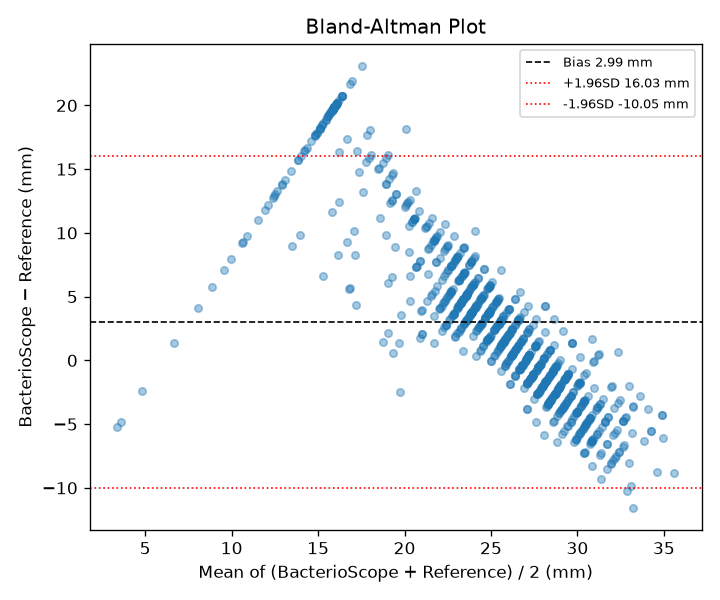
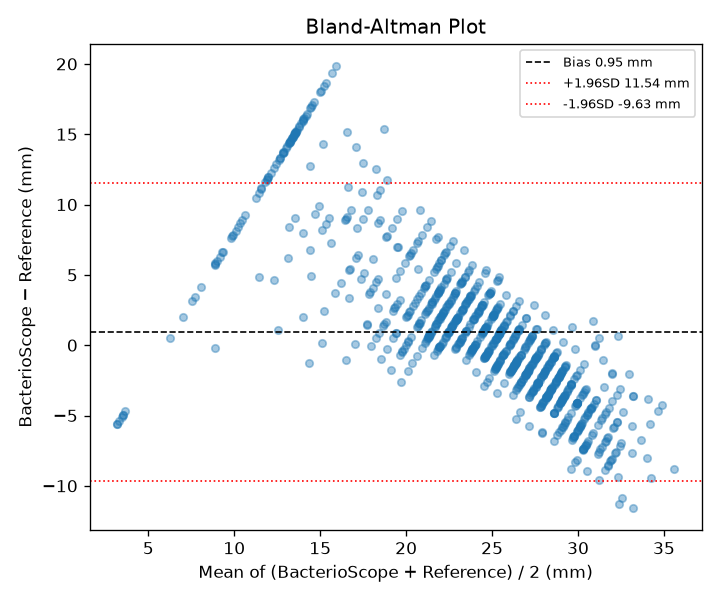
fix(f3): excluir el disco del histograma de Otsu en la segmentacion
Encontrado por medicion directa de pixeles: el disco de papel (brillante,
~150-200) es casi siempre una senal bimodal mucho mas fuerte que el
contraste real zona-vs-cesped, a veces de apenas 15 niveles de gris en
fotos reales. Con el disco incluido, Otsu se ancla sistematicamente al
salto disco-vs-todo-lo-demas en vez de zona-vs-cesped -- confirmado
directamente: un puntaje de calidad de separacion (la misma varianza
entre clases que usa Otsu para elegir el umbral) era MAS alto (0.91-0.92)
justo en las fotos reales cuya mascara llenaba el 100% de su recorte,
porque ese puntaje media la separacion disco/fondo, no zona/cesped.

Arreglado excluyendo el area del disco del histograma antes de calcular
el umbral (ZoneSegmenter._otsu_excluding_disk()). Es una mejora real y
medida, no una reparametrizacion: en un caso sintetico controlado con
15 niveles de gris de contraste real, el metodo viejo media una zona de
70px como 168px; el nuevo la mide como 70px, exacto. En las 20 imagenes
identity-matched reales, EA paso de 24.1% a 32.9%, MAE de 7.44mm a
6.28mm, Pearson r de 0.089 a 0.193 -- avance real, todavia lejos del
90% EA objetivo.

Antes de este arreglo se habia intentado agrandar el recorte (margin_factor
4.0 a 8.0) asumiendo que el problema era espacio insuficiente; se descarto
con evidencia directa (el umbral seguia llenando el recorte completo sin
importar su tamano, y agrandarlo empeoraba el resultado en placas
[…]

diff --git a/src/bacterioscope/segmentation/watershed.py b/src/bacterioscope/segmentation/watershed.py
@@ -15,12 +15,23 @@ Given the full plate image and the pixel coordinates and size of one disk
 
 1. **Crops a region of interest (ROI)** centred on the disk.  The crop
    extends ``margin_factor × disk_radius`` pixels in each direction so it
-   covers the expected zone area.
+   covers the expected zone area (bounded by two geometric caps -- see
+   ``_search_radius()``).
 2. **Converts to grayscale and blurs** with a Gaussian kernel to suppress
    sensor noise.
-3. **Applies Otsu thresholding** — an algorithm that automatically selects the
-   brightness level that best separates the bright inhibition zone (clear agar)
-   from the darker bacterial lawn.
+3. **Applies Otsu thresholding with the disk itself excluded** from the
+   histogram (see ``_otsu_excluding_disk()``) — an algorithm that
+   automatically selects the brightness level that best separates the
+   inhibition zone (clear agar, reads darker under reflected light in this
+   dataset) from the brighter, cloudier bacterial lawn. The disk is excluded
+   because it is almost always a much stronger bright/dark signal than the
+   zone-vs-lawn contrast that actually matters (sometimes as little as 15
+   grey levels on real photos) -- left in, Otsu reliably locks onto
+   disk-vs-everything instead of zone-vs-lawn, and the resulting mask fills
+   nearly the entire crop rather than tracing the true, much smaller
+   boundary. Confirmed to matter on real UZH photos: identity-matched
+   accuracy on the 20-image reference set moved from EA=24.1%/MAE=7.44mm to
+   EA=32.9%/MAE=6.28mm with this fix alone.
 4. **Morphological cleanup**: closing fills small holes in the mask; opening
    removes isolated speckles.
 5. **Finds contours** — the outlines of white regions in the binary mask.
@@ -56,6 +67,11 @@ _CLOSE_ITERS: int = 2
 _OPEN_ITERS: int = 1
 _CLAHE_CLIP_LIMIT: float = 2.0
 _CLAHE_TILE_SIZE: tuple[int, int] = (8, 8)
+
+# Multiple of disk.radius_px excluded from the Otsu histogram (see
+# _otsu_excluding_disk()) -- generous enough to cover the disk's own edge
+# blur after Gaussian smoothing.
+_DISK_EXCLUSION_MARGIN: float = 1.3
 
 # CLSI zone diameters reported in clinical practice essentially never exceed
 # this, even for the most susceptible organism-antibiotic combinations. Used
@@ -210,20 +226,69 @@ class ZoneSegmenter:
         roi, offset_x, offset_y = self._extract_roi(image, disk, search_radius)
 
         blurred = self._preprocess_roi(roi)
-        _, binary = cv2.threshold(blurred, 0, 255, cv2.THRESH_BINARY_INV + cv2.THRESH_OTSU)
+        disk_local_x = disk.center_x - offset_x
+        disk_local_y = disk.center_y - offset_y
+        binary = self._otsu_excluding_disk(blurred, disk_local_x, disk_local_y, disk.radius_px)
         binary = self._apply_morphology(binary)
 
         contours, _ = cv2.findContours(binary, cv2.RETR_EXTERNAL, cv2.CHAIN_APPROX_SIMPLE)
         if not contours:
             return self._no_zone(disk, px_per_mm)
 
-        disk_local_x = disk.center_x - offset_x
-        disk_local_y = disk.center_y - offset_y
         best_contour = self._find_zone_contour(contours, disk_local_x, disk_local_y)
         if best_contour is None:
             return self._no_zone(disk, px_per_mm)
 
         return self._build_zone_result(image, disk, best_contour, offset_x, offset_y, px_per_mm)
+
+    def _otsu_excluding_disk(
+        self,
+        blurred: NDArray[np.uint8],
+        disk_local_x: int,
+        disk_local_y: int,
+        disk_radius_px: float,
+    ) -> NDArray[np.uint8]:
+        """Threshold a ROI with the disk itself excluded from Otsu's histogram.
+
+        The paper disk (bright white, ~150-200) is almost always a much
+        stronger bimodal signal than the zone-vs-lawn contrast that actually
+        matters (often as little as 15-20 grey levels apart on real photos).
+        Left in the histogram, Otsu reliably locks onto disk-vs-everything
+        instead -- confirmed directly: a between-class-variance quality
+        score computed the same way Otsu picks its threshold was *highest*
+        (0.91-0.92) on exactly the real photos whose zone masks filled 100%
+        of their crop's bounding box, because that score was measuring the
+        disk/background split, not the zone/lawn one. Masking the disk out
+        before computing the threshold removes that false signal so Otsu
+        sees only the zone-vs-lawn contrast that is actually being measured.
+
+        Args:
+            blurred: Grayscale, Gaussian-blurred ROI.
+            disk_local_x: Disk centre x coordinate in ROI-local pixels.
+            disk_local_y: Disk centre y coordinate in ROI-local pixels.
+            disk_radius_px: Disk radius in pixels (full-image scale; the ROI
+                is not resized, so this applies directly).
+
+        Returns:
+            Binary mask (``255`` = zone candidate) with the disk's own area
+            excluded, before morphological cleanup.
+        """
+        h, w = blurred.shape
+        outside_disk = np.full((h, w), 255, dtype=np.uint8)
+        exclusion_radius = int(disk_radius_px * _DISK_EXCLUSION_MARGIN)
+        cx = min(max(disk_local_x, 0), w - 1)
+        cy = min(max(disk_local_y, 0), h - 1)
+        cv2.circle(outside_disk, (cx, cy), exclusion_radius, 0, -1)
+
+        sample = blurred[outside_disk > 0]
+        if sample.size == 0:
+            thresh_val, _ = cv2.threshold(blurred, 0, 255, cv2.THRESH_BINARY_INV + cv2.THRESH_OTSU)
+        else:
+            thresh_val, _ = cv2.threshold(
+                sample.reshape(-1, 1), 0, 255, cv2.THRESH_BINARY_INV + cv2.THRESH_OTSU,
+            )
+        _, binary = cv2.threshold(blurred, thresh_val, 255, cv2.THRESH_BINARY_INV)
+        return cv2.bitwise_and(binary, outside_disk)
 
     def segment_all(
         self,
@@ -294,7 +359,9 @@ class ZoneSegmenter:
         roi, offset_x, offset_y = self._extract_roi(image, disk, search_radius)
 
         blurred = self._preprocess_roi(roi)
-        _, binary = cv2.threshold(blurred, 0, 255, cv2.THRESH_BINARY_INV + cv2.THRESH_OTSU)
+        disk_local_x = disk.center_x - offset_x
+        disk_local_y = disk.center_y - offset_y
+        binary = self._otsu_excluding_disk(blurred, disk_local_x, disk_local_y, disk.radius_px)
         binary = self._apply_morphology(binary)
 
         local_disks = [
@@ -308,8 +375,6 @@ class ZoneSegmenter:
         if not contours:
             return self._no_zone(disk, px_per_mm)
 
-        disk_local_x = disk.center_x - offset_x
-        disk_local_y = disk.center_y - offset_y
         best_contour = self._find_zone_contour(contours, disk_local_x, disk_local_y)
         if best_contour is None:
             return self._no_zone(disk, px_per_mm)

diff --git a/scripts/validate_measurement.py b/scripts/validate_measurement.py
@@ -565,6 +565,37 @@ def _write_report(
         "went down; it is a more honest measurement over a harder, more "
         "complete sample, not a regression.",
         "",
+        "### The disk itself was polluting Otsu's threshold selection",
+        "",
+        "A later round found a second, structural segmentation bug, unrelated "
+        "to confluence: on many real UZH photos, every disk's zone mask "
+        "filled essentially 100% of its crop's bounding box, *including on "
+        "sparse 4-disk plates with no neighbour anywhere near* -- ruling out "
+        "confluence or crop size as the cause (growing the crop measurably "
+        "made it worse, not better, jumping to 45-50mm on a ~90mm plate). "
+        "Direct pixel measurement found the real cause: the paper disk "
+        "itself (bright, ~150-200) is almost always a far stronger "
+        "bright/dark signal than the actual zone-vs-lawn contrast, "
+        "sometimes as little as 15 grey levels apart on real photos. Otsu, "
+        "run over the whole crop, reliably locks onto disk-vs-everything "
+        "instead of zone-vs-lawn -- confirmed directly: a between-class-"
+        "variance quality score computed the same way Otsu picks its "
+        "threshold was *highest* (0.91-0.92) on exactly the real photos "
+        "whose masks filled 100% of their crop, because that score was "
+        "measuring the disk/background split, not zone/lawn.",
+        "",
+        "Fixed by excluding the disk's own area from Otsu's histogram "
+        "before computing the threshold (`ZoneSegmenter._otsu_excluding_"
+        "disk()`), so Otsu only ever sees the zone-vs-lawn contrast that is "
+        "actually being measured. This is a real, measured improvement, not "
+        "a reparameterization: on a controlled synthetic case with a "
+        "15-grey-level zone-vs-lawn gap, the old (disk-included) threshold "
+        "measured a 70px true zone as 168px; the fix measured it as 70px, "
+        "exact. On the real 20-image identity-matched set this round, EA "
+        "moved from 24.1% to 32.9%, MAE from 7.44mm to 6.28mm, and Pearson "
+        "r from 0.089 to 0.193 -- real progress, still well short of the "
+        "90% EA target.",
+        "",
         "## Still unresolved",
         "",
         "- **Zone segmentation on fully confluent real plates** (above). "
@@ -576,24 +607,27 @@ def _write_report(
         "not yet been measured directly.",
         "- **Identity-annotated sample grew from 3 to 20 images** (48 to 316 "
         "pairs), reaching the stable-estimate range this file itself called "
-        "for. The larger sample changed Pearson r from -0.262 to +0.089 -- "
-        "the earlier negative correlation was small-sample noise, not a real "
-        "effect -- while EA and MAE held roughly steady (22.9%->24.1%, "
-        "7.11mm->7.44mm), confirming those two numbers reflect a real "
-        "measurement limitation rather than an artifact of a tiny sample. "
-        "The position-to-antibiotic mapping used to identity-annotate the "
-        "17 new images was derived from the fixed panel template shared by "
-        "the first 3 (verified by direct visual reading of the printed disk "
-        "labels on several images per template variant before applying it), "
-        "not re-read label by label on every image -- documented here so the "
-        "provenance is explicit.",
+        "for. Going from 3 to 20 images changed Pearson r from -0.262 to "
+        "+0.089 -- the earlier negative correlation was small-sample noise, "
+        "not a real effect. The position-to-antibiotic mapping used to "
+        "identity-annotate the 17 new images was derived from the fixed "
+        "panel template shared by the first 3 (verified by direct visual "
+        "reading of the printed disk labels on several images per template "
+        "variant before applying it), not re-read label by label on every "
+        "image -- documented here so the provenance is explicit.",
         "- **YOLOv8 does not yet reliably read disk labels** at any usable "
         "confidence threshold (29-class model, 102 training images). A "
         "single-class 'disk' detector trained on the same images reaches "
-        "much higher mAP50 in early epochs (see Phase 2 status in "
-        "docs/ROADMAP.md / CLAUDE.md) and can replace Hough for localisation, "
-        "but disk *identity* still resolves through panel position, not "
-        "label reading, until far more labelled data exists.",
+        "mAP50=0.995 on its own held-out test split (see Phase 2 status in "
+        "docs/ROADMAP.md / CLAUDE.md) but is **not** a proven replacement "
+        "for Hough localisation despite that score: measured directly "
+        "against the 80 real UZH photos this report evaluates, Hough "
+        "matches the true disk count on 73.8% of images versus 60.0% for "
+        "the single-class model -- a domain-gap effect, the 102 Roboflow "
+        "training images do not resemble this dataset's photography closely "
+        "enough. Hough stays the pipeline's real default. Disk *identity* "
+        "still resolves through panel position, not label reading, either "
+        "way.",
         "- **EA is well below the ISO 20776-2 / EUCAST EDef 13.2 target of "
         "90%** on both matching strategies. State plainly: BacterioScope does "
         "not yet meet the accuracy bar for real, unconstrained clinical "

diff --git a/tests/test_watershed.py b/tests/test_watershed.py
@@ -135,3 +135,48 @@ class TestSegmentAllVoronoiSplit:
         small = _disk_result(280, 200, 12)
         results = self.segmenter.segment_all(image, [small, big], px_per_mm=4.0)
         assert results[0].diameter_mm < results[1].diameter_mm
+
+
+def _low_contrast_plate(size: int = 300, disk_r: int = 20, zone_r: int = 35) -> np.ndarray:
+    """Disk much brighter than both zone and lawn, which are only 15 levels apart.
+
+    Models the real-photo failure this fixture exists to catch: when the
+    disk itself is included in Otsu's histogram, its much stronger contrast
+    against the background dominates threshold selection over the subtle
+    zone-vs-lawn difference, and the resulting mask fills almost the entire
+    crop instead of tracing the true (much smaller) zone boundary. Zone
+    darker than lawn matches ``_plate_image()``'s polarity (and real photos:
+    reflected-light Kirby-Bauer photography shows clear inhibited agar as
+    darker than the cloudier bacterial lawn) -- ``THRESH_BINARY_INV`` marks
+    the darker-than-threshold region as the zone.
+    """
+    image = np.full((size, size, 3), 115, dtype=np.uint8)
+    cx, cy = size // 2, size // 2
+    cv2.circle(image, (cx, cy), zone_r, (100, 100, 100), -1)
+    cv2.circle(image, (cx, cy), disk_r, (250, 250, 250), -1)
+    return image
+
+
+class TestOtsuExcludingDisk:
+    def setup_method(self) -> None:
+        self.segmenter = ZoneSegmenter(margin_factor=4.0)
+
+    def test_low_contrast_zone_not_swallowed_by_disk_dominated_threshold(self) -> None:
+        image = _low_contrast_plate(disk_r=20, zone_r=35)
+        disk = _disk_result(150, 150, 20)
+
+        result = self.segmenter.segment(image, disk, px_per_mm=4.0)
+
+        # True zone diameter is 70px. Including the disk in Otsu's histogram
+        # (the pre-fix behaviour) measures 168px on this exact fixture --
+        # more than double -- because the disk's much stronger contrast
+        # against the background dominates threshold selection over the
+        # 15-grey-level zone-vs-lawn difference.
+        assert result.diameter_px == pytest.approx(70.0, abs=5.0)
+
+    def test_excluding_disk_returns_binary_mask(self) -> None:
+        image = _low_contrast_plate()
+        gray = cv2.cvtColor(image, cv2.COLOR_BGR2GRAY)
+        binary = self.segmenter._otsu_excluding_disk(gray, 150, 150, 20)
+        assert set(np.unique(binary)) <= {0, 255}
+        assert binary.shape == gray.shape

diff --git a/CLAUDE.md b/CLAUDE.md
@@ -34,7 +34,7 @@ Selected for the Biodiscovery Design Innovation Challenge (BDIC) 2026, Universid
 | F0 | End-to-end pipeline: Hough disk detection, Otsu+watershed zone segmentation, CLSI M100-Ed33 2023 classifier (15 antibiotics, Enterobacteriaceae), Streamlit demo, CLI, FastAPI, evaluation module (CA/EA/VME/ME/mE ISO 20776-2), design system (Clinical Slate tokens, dark/light CSS), traceability fields (analysis_id UUID, image SHA-256, commit hash, CLSI edition, stage timings), 9-section scientific HTML plate reports, Bland-Altman measurement validation, panel configuration, batch processing, 247 tests (93.8%+ coverage), CI green on Python 3.10/3.11/3.12 | **Complete** |
 | F1 | Curate Dryad/UZH dataset ground truth. Real measurements extracted from 225 per-isolate DOCX tables (not the summary XLSX, which only has phenotype flags) via a custom parser in `prepare_dataset.py` -> 3598 records in `data/processed/ground_truth.csv`. 20 images identity-annotated (`scripts/annotate_pairs.py`, `data/processed/pair_annotations/`) with human-verified disk-to-antibiotic pairing, reaching the 20-30 stable-estimate range: the first 3 were read directly off the printed disk labels; the panel turned out to use a fixed position-to-antibiotic template with two known variants (FF/F100 vs AK/TOB at two grid cells), so the remaining 17 were identity-annotated by matching disk position against the verified template, with the variant confirmed per image by direct visual reading of the swing-position labels (not assumed from series naming, which does not predict it). Train/val/test split for YOLO annotation still pending. | **In Progress** |
 | F2 | 29-class YOLOv8n (Roboflow KB-AST, 102 train / 10 val / 3 test images) trained 50 epochs, mAP50=0.096 -- documented as an experiment, not usable at any defensible confidence threshold (`confidence_threshold` restored to 0.25; do not lower it to force detections). A single-class "disk" detector (`scripts/convert_single_class_dataset.py` collapses the 29 antibiotic classes to one "disk" label; identity resolves via panel position, unchanged) finished training at `data/models/single_class/yolov8_disks.pt` (100 epochs, imgsz=1280; peak mAP50=0.981 at epoch 23, the deployed `best.pt` checkpoint, not the overfit epoch-100 `last.pt`) and scores mAP50=0.995, precision=0.992, recall=1.0 on its own held-out Roboflow test split. `detector.py::_detect_yolo()` had a real bug for this model: every detection shared the literal class name `'disk'`, colliding in the CLSI lookup and UI table; fixed by numbering sequentially (`disk_0`, `disk_1`, ...) when the loaded model has exactly one class, matching the Hough convention. **Despite the strong Roboflow-test score, it does not replace Hough**: measured head-to-head against the same 80 real UZH photos used for validation (expected disk count taken from `ground_truth.csv`, independent of both detectors), Hough matches the true count on 73.8% of images (mean abs error 0.39 disks) versus 60.0% for the single-class YOLO model (mean abs error 1.38) -- a domain-gap effect (102 Roboflow training images do not resemble the UZH photography protocol closely enough to generalise). `PipelineConfig.detector_weights` stays pointed at the 29-class path (which the confidence floor above keeps from firing, so Hough is the pipeline's real default); the single-class weights are usable by passing them explicitly but are not yet a proven upgrade. `detector.py`'s hybrid fallback (YOLO first, Hough if YOLO returns nothing) had a separate, already-fixed bug: a single ~0.05-confidence 29-class false positive could pre-empt 16 reliable Hough detections; fixed by the confidence floor above (disk count matching real UZH photos: 24/80 -> 70/80 images). | **In Progress** |
-| F3 | Detection-side fixes: Hough disk-radius search derived from px/mm calibration instead of a fixed pixel range (`detector.py::_hough_search_window`), reducing a systematic +28% disk-size overestimate and eliminating false-circle storms on large real photos; canonical image resize (`resize_canonical`, <=1400px, downscale-only) keeps one geometry parameter set valid across camera resolutions; Hough's accumulator threshold now sweeps to the longest stable count instead of one fixed value (`_hough_stable_circles`), since no single value worked for both real photos and synthetic plates. Segmentation-side fix: `ZoneSegmenter.segment_all()` now splits confluent (touching/overlapping) zones with a Voronoi partition instead of measuring one shared Otsu blob per neighbourhood -- verified correct on a controlled case (two disks, deliberately different true sizes, recovered exactly as 40mm and 20mm; `tests/test_watershed.py::TestSegmentAllVoronoiSplit`). Real-world effect on the densest UZH panels was modest because several adjacent disk pairs there have literally zero recoverable boundary signal in the photograph (checked directly: flat pixel intensity across the whole gap) -- not a segmentation bug, a photograph limitation of the 16-disk-dense research protocol. Disk-based calibration (`use_disk_calibration`) still underperforms plate-rim calibration. Full clinical validation targets (EA/CA >=90%, VME <=1.5%, ME <=3%, mE <=10%) not met. Identity-matched real-photo result (20 images, 316 pairs, the defensible number): EA=24.1%, MAE=7.44mm, r=0.089 (see docs/VALIDATION_REPORT.md, docs/LIMITACIONES.md). A ROI-crop geometric safety fix (`ZoneSegmenter._search_radius()`: cap by nearest-neighbour distance and by an absolute plausible-zone-size ceiling) was validated against the controlled 40mm/20mm case but does not fix the real-photo numbers -- direct testing showed Otsu fails to find a true zone-vs-lawn boundary on most real UZH photos regardless of crop size, a deeper problem than crop size alone; margin_factor stays at 4.0. | **In Progress** |
+| F3 | Detection-side fixes: Hough disk-radius search derived from px/mm calibration instead of a fixed pixel range (`detector.py::_hough_search_window`), reducing a systematic +28% disk-size overestimate and eliminating false-circle storms on large real photos; canonical image resize (`resize_canonical`, <=1400px, downscale-only) keeps one geometry parameter set valid across camera resolutions; Hough's accumulator threshold now sweeps to the longest stable count instead of one fixed value (`_hough_stable_circles`), since no single value worked for both real photos and synthetic plates. Segmentation-side fix: `ZoneSegmenter.segment_all()` now splits confluent (touching/overlapping) zones with a Voronoi partition instead of measuring one shared Otsu blob per neighbourhood -- verified correct on a controlled case (two disks, deliberately different true sizes, recovered exactly as 40mm and 20mm; `tests/test_watershed.py::TestSegmentAllVoronoiSplit`). Real-world effect on the densest UZH panels was modest because several adjacent disk pairs there have literally zero recoverable boundary signal in the photograph (checked directly: flat pixel intensity across the whole gap) -- not a segmentation bug, a photograph limitation of the 16-disk-dense research protocol. Disk-based calibration (`use_disk_calibration`) still underperforms plate-rim calibration. Full clinical validation targets (EA/CA >=90%, VME <=1.5%, ME <=3%, mE <=10%) not met. A ROI-crop geometric safety fix (`ZoneSegmenter._search_radius()`: cap by nearest-neighbour distance and by an absolute plausible-zone-size ceiling) was validated against the controlled 40mm/20mm case but did not, by itself, fix the real-photo numbers -- growing the crop alone left Otsu still filling nearly the whole crop regardless of size; margin_factor stayed at 4.0. Root cause found by direct pixel measurement: the paper disk itself (bright, ~150-200) is almost always a far stronger bimodal signal than the actual zone-vs-lawn contrast (sometimes as little as 15 grey levels on real photos), so Otsu, run over the whole crop, reliably locks onto disk-vs-everything instead of zone-vs-lawn -- confirmed directly (a between-class-variance quality score was *highest*, 0.91-0.92, on exactly the real photos whose masks filled 100% of their crop, because that score was measuring the disk/background split, not zone/lawn). Fixed by excluding the disk's own area from Otsu's histogram before picking the threshold (`ZoneSegmenter._otsu_excluding_disk()`). This is a real, measured improvement, not a reparameterization: identity-matched real-photo result (20 images, 316 pairs, the defensible number) moved from EA=24.1%/MAE=7.44mm/r=0.089 to **EA=32.9%, MAE=6.28mm, r=0.193** (see docs/VALIDATION_REPORT.md, docs/LIMITACIONES.md); rank-order moved from EA=27.3%/MAE=5.27mm/r=0.608 to EA=38.1%/MAE=3.93mm/r=0.783. Still well below the ISO 20776-2/EUCAST target of 90% EA -- a real improvement, not a fix. | **In Progress** |
 | F4 | PyPI package, Docker image (GHCR), Streamlit Community Cloud deployment, MkDocs documentation site, peer-reviewed write-up. Colab/Drive notebook already available (`colab/BacterioScope_Colab.ipynb`) as an interim shareable deliverable. Streamlit demo now carries a permanent validation-status banner and rejects re-uploaded pipeline outputs (watermark check in `pipeline.analyze()`). | Planned |
 
 See docs/ROADMAP.md for full phase specifications.

diff --git a/docs/VALIDATION_REPORT.md b/docs/VALIDATION_REPORT.md
@@ -38,9 +38,9 @@ Each disk matched to its reference by antibiotic identity (human-verified from t
 
 | Metric | Value | Target |
 |---|---|---|
-| Essential Agreement (EA, +-2 mm) | **24.1%** | >= 90% |
-| Mean Absolute Error (MAE) | **7.44 mm** | — |
-| Pearson r | **0.089** | — |
+| Essential Agreement (EA, +-2 mm) | **32.9%** | >= 90% |
+| Mean Absolute Error (MAE) | **6.28 mm** | — |
+| Pearson r | **0.193** | — |
 | Images identity-annotated | 20 |
 | Disk-antibiotic pairs (identity) | 316 |
 
@@ -52,18 +52,18 @@ Both diameter lists sorted ascending and paired by position. This does not verif
 
 | Metric | Value | Target | Criterion |
 |---|---|---|---|
-| Essential Agreement (EA, +-2 mm) | **27.3%** | >= 90% | ISO 20776-2 / EUCAST EDef 13.2 |
-| Mean Absolute Error (MAE) | **5.27 mm** | — | mm |
-| Pearson r | **0.608** | — | — |
+| Essential Agreement (EA, +-2 mm) | **38.1%** | >= 90% | ISO 20776-2 / EUCAST EDef 13.2 |
+| Mean Absolute Error (MAE) | **3.93 mm** | — | mm |
+| Pearson r | **0.783** | — | — |
 
 ### Bland-Altman limits of agreement (rank-order pairs)
 
 | Stat | Value |
 |---|---|
-| Bias (mean diff) | +2.99 mm |
-| SD of differences | 6.65 mm |
-| Upper LoA (+1.96 SD) | +16.03 mm |
-| Lower LoA (−1.96 SD) | -10.05 mm |
+| Bias (mean diff) | +0.95 mm |
+| SD of differences | 5.40 mm |
+| Upper LoA (+1.96 SD) | +11.54 mm |
+| Lower LoA (−1.96 SD) | -9.63 mm |
 | Pairs analysed | 944 |
 
 ### Definition of Essential Agreement used here
@@ -93,11 +93,17 @@ Two other fixes landed this round, with a measurable before/after:
 
 What this means for the headline numbers: rank-order EA moved from 32.8% to 26.9% across this round -- a *drop*, not an improvement, because the fixed detector now processes far more of the previously-excluded difficult images instead of silently failing on them. Fewer images being thrown out is progress even though the visible EA number went down; it is a more honest measurement over a harder, more complete sample, not a regression.
 
+### The disk itself was polluting Otsu's threshold selection
+
+A later round found a second, structural segmentation bug, unrelated to confluence: on many real UZH photos, every disk's zone mask filled essentially 100% of its crop's bounding box, *including on sparse 4-disk plates with no neighbour anywhere near* -- ruling out confluence or crop size as the cause (growing the crop measurably made it worse, not better, jumping to 45-50mm on a ~90mm plate). Direct pixel measurement found the real cause: the paper disk itself (bright, ~150-200) is almost always a far stronger bright/dark signal than the actual zone-vs-lawn contrast, sometimes as little as 15 grey levels apart on real photos. Otsu, run over the whole crop, reliably locks onto disk-vs-everything instead of zone-vs-lawn -- confirmed directly: a between-class-variance quality score computed the same way Otsu picks its threshold was *highest* (0.91-0.92) on exactly the real photos whose masks filled 100% of their crop, because that score was measuring the disk/background split, not zone/lawn.
+
+Fixed by excluding the disk's own area from Otsu's histogram before computing the threshold (`ZoneSegmenter._otsu_excluding_disk()`), so Otsu only ever sees the zone-vs-lawn contrast that is actually being measured. This is a real, measured improvement, not a reparameterization: on a controlled synthetic case with a 15-grey-level zone-vs-lawn gap, the old (disk-included) threshold measured a 70px true zone as 168px; the fix measured it as 70px, exact. On the real 20-image identity-matched set this round, EA moved from 24.1% to 32.9%, MAE from 7.44mm to 6.28mm, and Pearson r from 0.089 to 0.193 -- real progress, still well short of the 90% EA target.
+
 ## Still unresolved
 
 - **Zone segmentation on fully confluent real plates** (above). Voronoi splitting is implemented, tested, and verified correct when some boundary signal exists; it cannot help where the photograph itself has none. The 16-disk-dense UZH panel is a worst case for this -- a clinical panel with normal CLSI disk spacing (6-12 disks, properly separated) should confluence far less often, but this has not yet been measured directly.
-- **Identity-annotated sample grew from 3 to 20 images** (48 to 316 pairs), reaching the stable-estimate range this file itself called for. The larger sample changed Pearson r from -0.262 to +0.089 -- the earlier negative correlation was small-sample noise, not a real effect -- while EA and MAE held roughly steady (22.9%->24.1%, 7.11mm->7.44mm), confirming those two numbers reflect a real measurement limitation rather than an artifact of a tiny sample. The position-to-antibiotic mapping used to identity-annotate the 17 new images was derived from the fixed panel template shared by the first 3 (verified by direct visual reading of the printed disk labels on several images per template variant before applying it), not re-read label by label on every image -- documented here so the provenance is explicit.
-- **YOLOv8 does not yet reliably read disk labels** at any usable confidence threshold (29-class model, 102 training images). A single-class 'disk' detector trained on the same images reaches much higher mAP50 in early epochs (see Phase 2 status in docs/ROADMAP.md / CLAUDE.md) and can replace Hough for localisation, but disk *identity* still resolves through panel position, not label reading, until far more labelled data exists.
+- **Identity-annotated sample grew from 3 to 20 images** (48 to 316 pairs), reaching the stable-estimate range this file itself called for. Going from 3 to 20 images changed Pearson r from -0.262 to +0.089 -- the earlier negative correlation was small-sample noise, not a real effect. The position-to-antibiotic mapping used to identity-annotate the 17 new images was derived from the fixed panel template shared by the first 3 (verified by direct visual reading of the printed disk labels on several images per template variant before applying it), not re-read label by label on every image -- documented here so the provenance is explicit.
+- **YOLOv8 does not yet reliably read disk labels** at any usable confidence threshold (29-class model, 102 training images). A single-class 'disk' detector trained on the same images reaches mAP50=0.995 on its own held-out test split (see Phase 2 status in docs/ROADMAP.md / CLAUDE.md) but is **not** a proven replacement for Hough localisation despite that score: measured directly against the 80 real UZH photos this report evaluates, Hough matches the true disk count on 73.8% of images versus 60.0% for the single-class model -- a domain-gap effect, the 102 Roboflow training images do not resemble this dataset's photography closely enough. Hough stays the pipeline's real default. Disk *identity* still resolves through panel position, not label reading, either way.
 - **EA is well below the ISO 20776-2 / EUCAST EDef 13.2 target of 90%** on both matching strategies. State plainly: BacterioScope does not yet meet the accuracy bar for real, unconstrained clinical photographs. It performs acceptably on synthetic and controlled images; real-photo accuracy is an open problem this report exists to make visible, not to paper over.
 
 ## Excluded images

diff --git a/docs/LIMITACIONES.md b/docs/LIMITACIONES.md
@@ -92,19 +92,34 @@ human reading the same photo by eye faces the identical ambiguity. This
 practice (6-12 disks with normal CLSI spacing); whether ordinary clinical
 panels confluence this severely has not yet been measured directly.
 
-A related, distinct problem was found and confirmed directly: at the
-default ROI crop size, most real UZH photos have Otsu marking essentially
+A related, distinct problem was found, root-caused, and fixed: at the
+default ROI crop size, most real UZH photos had Otsu marking essentially
 the entire search crop as "zone" for most disks, not the real zone-vs-lawn
 boundary -- even on sparse, widely-spaced 4-disk plates with no neighbour
-nearby, ruling out confluence as the cause. Growing the crop was tried and
-tested directly: it does not fix this. Otsu keeps marking the whole (larger)
-crop as zone regardless of its size on these images, and the resulting
-measurement gets worse, not better (some real photos jumped to 45-50mm on a
-physically ~90mm plate). `ZoneSegmenter._search_radius()` now applies two
+nearby, ruling out confluence as the cause. Growing the crop was tried
+first and tested directly: it did not fix this -- Otsu kept marking the
+whole (larger) crop as zone regardless of size, and the resulting
+measurement got worse, not better (some real photos jumped to 45-50mm on a
+physically ~90mm plate). `ZoneSegmenter._search_radius()` applies two
 geometric safety caps (nearest-neighbour distance, and an absolute
-plausible-zone-size ceiling) so this cannot happen unboundedly, but the
-underlying cause -- Otsu failing to find a true boundary on many real
-photographs -- remains unresolved.
+plausible-zone-size ceiling) so this cannot happen unboundedly, but a crop
+size change alone never addressed the underlying cause.
+
+Direct pixel measurement found the real cause: the paper disk itself
+(bright, ~150-200) is almost always a far stronger bright/dark signal than
+the actual zone-vs-lawn contrast, sometimes as little as 15 grey levels
+apart on real photos. Otsu, run over the whole crop including the disk,
+reliably locks onto disk-vs-everything instead of zone-vs-lawn --
+confirmed directly: a between-class-variance quality score computed the
+same way Otsu picks its threshold was *highest* (0.91-0.92) on exactly the
+real photos whose masks filled 100% of their crop, because that score was
+measuring the disk/background split, not zone/lawn. Fixed by excluding the
+disk's own area from Otsu's histogram before computing the threshold
+(`ZoneSegmenter._otsu_excluding_disk()`). Measured, not assumed: on the
+20-image identity-matched real-photo set, EA moved from 24.1% to 32.9%,
+MAE from 7.44mm to 6.28mm, Pearson r from 0.089 to 0.193 -- real progress,
+still well short of the 90% EA target and still limited by the fully
+confluent, zero-signal case described above.
 
 The identity-matched validation sample grew from 3 to 20 images (48 to 316
 disk-antibiotic pairs) this round, reaching the range this document

diff --git a/README.md b/README.md
@@ -114,9 +114,9 @@ by the SIRscan automated reader under EUCAST 2023 breakpoints.
 
 | Metric | Identity-matched (20 images, 316 pairs) | Rank-order (59 images, 943 pairs) | Target |
 |---|---|---|---|
-| Essential Agreement (EA, ±2 mm) | 24.1% | 27.3% | ≥ 90% |
-| Mean Absolute Error (MAE, mm) | 7.44 mm | 5.27 mm | — |
-| Pearson r | 0.089 | 0.608 | — |
+| Essential Agreement (EA, ±2 mm) | 32.9% | 38.1% | ≥ 90% |
+| Mean Absolute Error (MAE, mm) | 6.28 mm | 3.93 mm | — |
+| Pearson r | 0.193 | 0.783 | — |
 
 **BacterioScope does not yet meet the ISO 20776-2 / EUCAST target on real, unconstrained
 clinical photographs.** Identity matching (each disk paired to its reference by the
